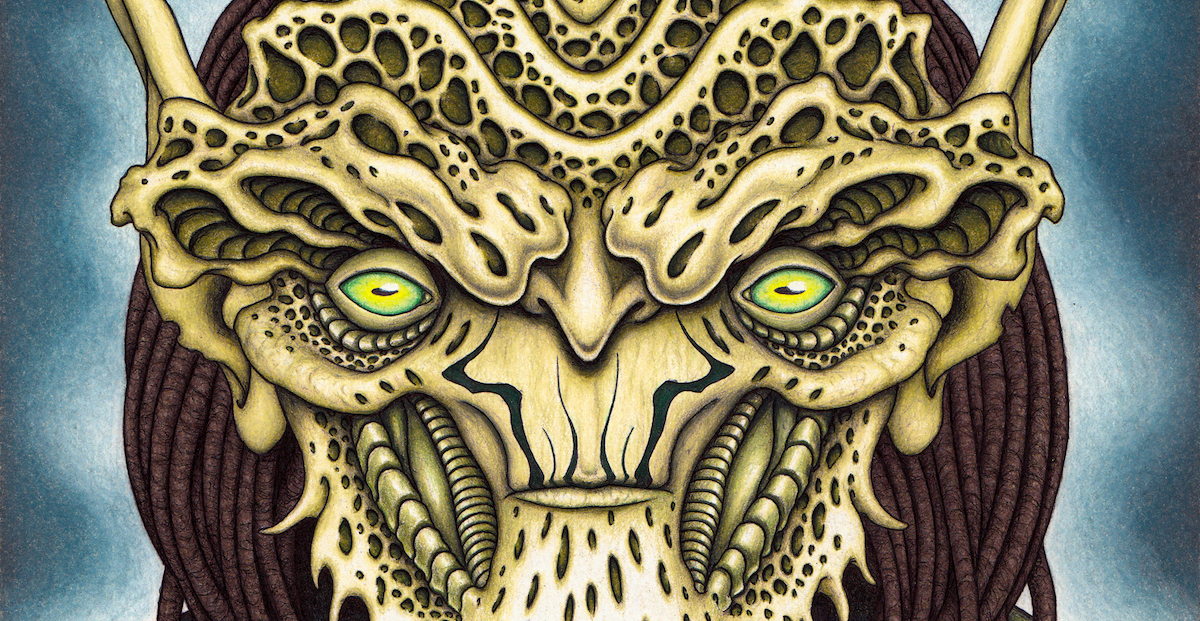
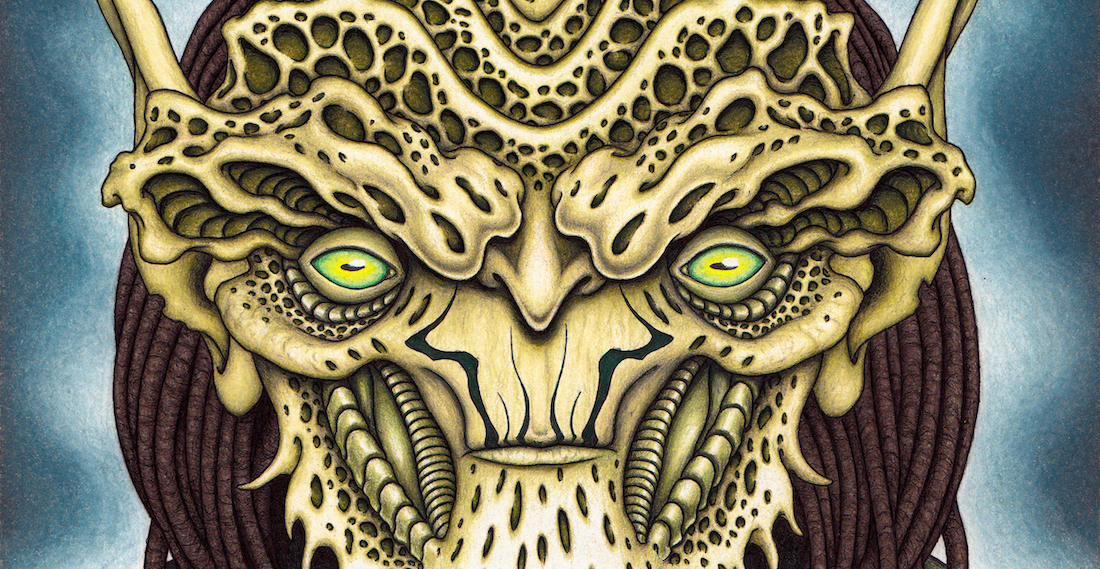
adjust feature grid img sizes

diff --git a/src/resources/style.css b/src/resources/style.css
@@ -258,9 +258,9 @@ nav {
 }
 
 /* Rotate on hover when checked */
-.menu-wrap .toggler:checked:hover + .hamburger > div {
+/* .menu-wrap .toggler:checked:hover + .hamburger > div {
   transform: rotate(90deg);
-}
+} */
 
 /* Show menu */
 .menu-wrap .toggler:checked ~ .menu {
@@ -470,9 +470,7 @@ header {
   }
 
   .feature-grid-item-1 img {
-      position: relative;
-      top: -3rem;
-      transform: scale(1.5);
+      transform: scale(1.2);
   }
   
   .feature-grid-item-2 {
@@ -483,9 +481,7 @@ header {
   }
 
   .feature-grid-item-2 img {
-    position: relative;
-    top: -1rem;
-    transform: scale(1.5);
+    transform: scale(1.2);
 }
   
   .feature-grid-item-3 {
@@ -496,9 +492,7 @@ header {
   }
 
   .feature-grid-item-3 img {
-    position: relative;
-    top: -1rem;
-    transform: scale(1.5);
+    transform: scale(1.2);
 }
 
 .feature-grid-item-4 {
@@ -508,10 +502,8 @@ header {
     grid-row-end: 3;
   }
 
-  .feature-grid-item-4 img {
-    position: relative;
-    top: -4rem;
-    transform: scale(1.45);
+.feature-grid-item-4 img {
+    transform: scale(1.1);
 }
 
 .feature-grid-item-5 {
@@ -521,10 +513,8 @@ header {
     grid-row-end: 3;
   }
 
-  .feature-grid-item-5 img {
-    position: relative;
-    top: -4rem;
-    transform: scale(1.6);
+.feature-grid-item-5 img {
+    transform: scale(1.2);
 }
 
 .feature-grid-item-6 {
@@ -535,9 +525,8 @@ header {
   }
 
   .feature-grid-item-6 img {
-    position: relative;
-    top: -2rem;
-    transform: scale(1.5);
+    
+    transform: scale(1.2);
 }
 
 .feature-grid-item-7 {
@@ -548,9 +537,7 @@ header {
   }
 
   .feature-grid-item-7 img {
-    position: relative;
-    top: 0rem;
-    transform: scale(2);
+    transform: scale(1.2);
 }
 
 .feature-grid-item-8 {
@@ -562,9 +549,8 @@ header {
 
   .feature-grid-item-8 img {
     position: relative;
-    top: -3rem;
-    right: -3rem;
-    transform: scale(1.5);
+    right: -2rem;
+    transform: scale(1.25);
 }
 
 .feature-grid-item-9 {
@@ -574,10 +560,8 @@ header {
     grid-row-end: 4;
   }
 
-  .feature-grid-item-9 img {
-    position: relative;
-    top: 0rem;
-    transform: scale(1.2);
+.feature-grid-item-9 img {
+    transform: scale(1.3);
 }
 
 .feature-grid-item-10 {
@@ -588,10 +572,7 @@ header {
   }
 
   .feature-grid-item-10 img {
-    position: relative;
-    top: 0rem;
-    right: -2rem;
-    transform: scale(1.6);
+    transform: scale(1.1);
 }
 
 .feature-grid-item-11 {
@@ -599,25 +580,19 @@ header {
     grid-column-end: 3;
     grid-row-start: 4;
     grid-row-end: 5;
-  }
-
-  .feature-grid-item-11 img {
-    position: relative;
-    transform: scale(1.4);
 }
+
+
 
 .feature-grid-item-12 {
     grid-column-start: 3;
     grid-column-end: 4;
     grid-row-start: 4;
     grid-row-end: 5;
-  }
+}
 
-  .feature-grid-item-12 img {
-    position: relative;
-    top: -5rem;
-    right: 2rem;
-    transform: scale(1.6);
+.feature-grid-item-12 img {
+    transform: scale(1.2);
 }
 
 .feature-grid-item-13 {

diff --git a/src/resources/queries.css b/src/resources/queries.css
@@ -189,68 +189,26 @@
   /*____ HEADER IMAGE SLIDER___________________ */
 
   .header-slider {
-    height: 20rem;
+    height: 13rem;
 }
 
   /*____ HOMEPAGE-GRID ___________________ */
   
   .feature-grid-item-1 img {
-      top: -2rem;
-      transform: scale(1.5);
+    transform: scale(1.6);
   }
 
-  .feature-grid-item-2 img {
-    top: -1rem;
-    transform: scale(1.5);
-}
-
-  .feature-grid-item-3 img {
-    top: -1rem;
-    transform: scale(1.5);
-}
-
-  .feature-grid-item-4 img {
-    top: -1rem;
-}
-
-  .feature-grid-item-5 img {
-    top: -2rem;
-}
-
-  .feature-grid-item-6 img {
-    top: -2rem;
-    transform: scale(1.5);
-}
-
-  .feature-grid-item-7 img {
-    top: 0rem;
-    transform: scale(2);
-}
-
   .feature-grid-item-8 img {
-    top: 1rem;
-    right: -1rem;
-    transform: scale(1.4);
+    left: .5rem;
+    transform: scale(1.25);
 }
 
   .feature-grid-item-9 img {
-    top: 0rem;
-    transform: scale(1.2);
+    transform: scale(1.3);
 }
 
-  .feature-grid-item-10 img {
-    top: 0rem;
-    right: -.5rem;
 
-}
 
-  .feature-grid-item-11 img {
-    transform: scale(1.2);
-}
-
-  .feature-grid-item-12 img {
-    top: 0rem;
-}
 
 /*____ GALLERY-GRID ___________________ */
 
@@ -458,19 +416,19 @@
 .slider-container {
     width: 32rem;
     /* width: 40rem; */
-    height: 50rem;
+    height: 40rem;
 }
 
 .slider {
     width: 32rem;
     /* width: 40rem; */
-    height: 50rem;
+    height: 40rem;
 }
 
 .slide {
     width: 32rem;
     /* width: 40rem; */
-    height: 50rem;
+    height: 40rem;
 
 }
 
@@ -748,6 +706,7 @@
  .cart-item {
   margin-top: 1rem;
   padding-left: 1rem;
+  flex-direction: column;
 }
 
 .cart-totals {
@@ -757,7 +716,7 @@
  }
 
  .cart-item-image {
-  height: 5rem;
+  height: 7rem;
   width: auto;
   border: 2px solid white;
 }
